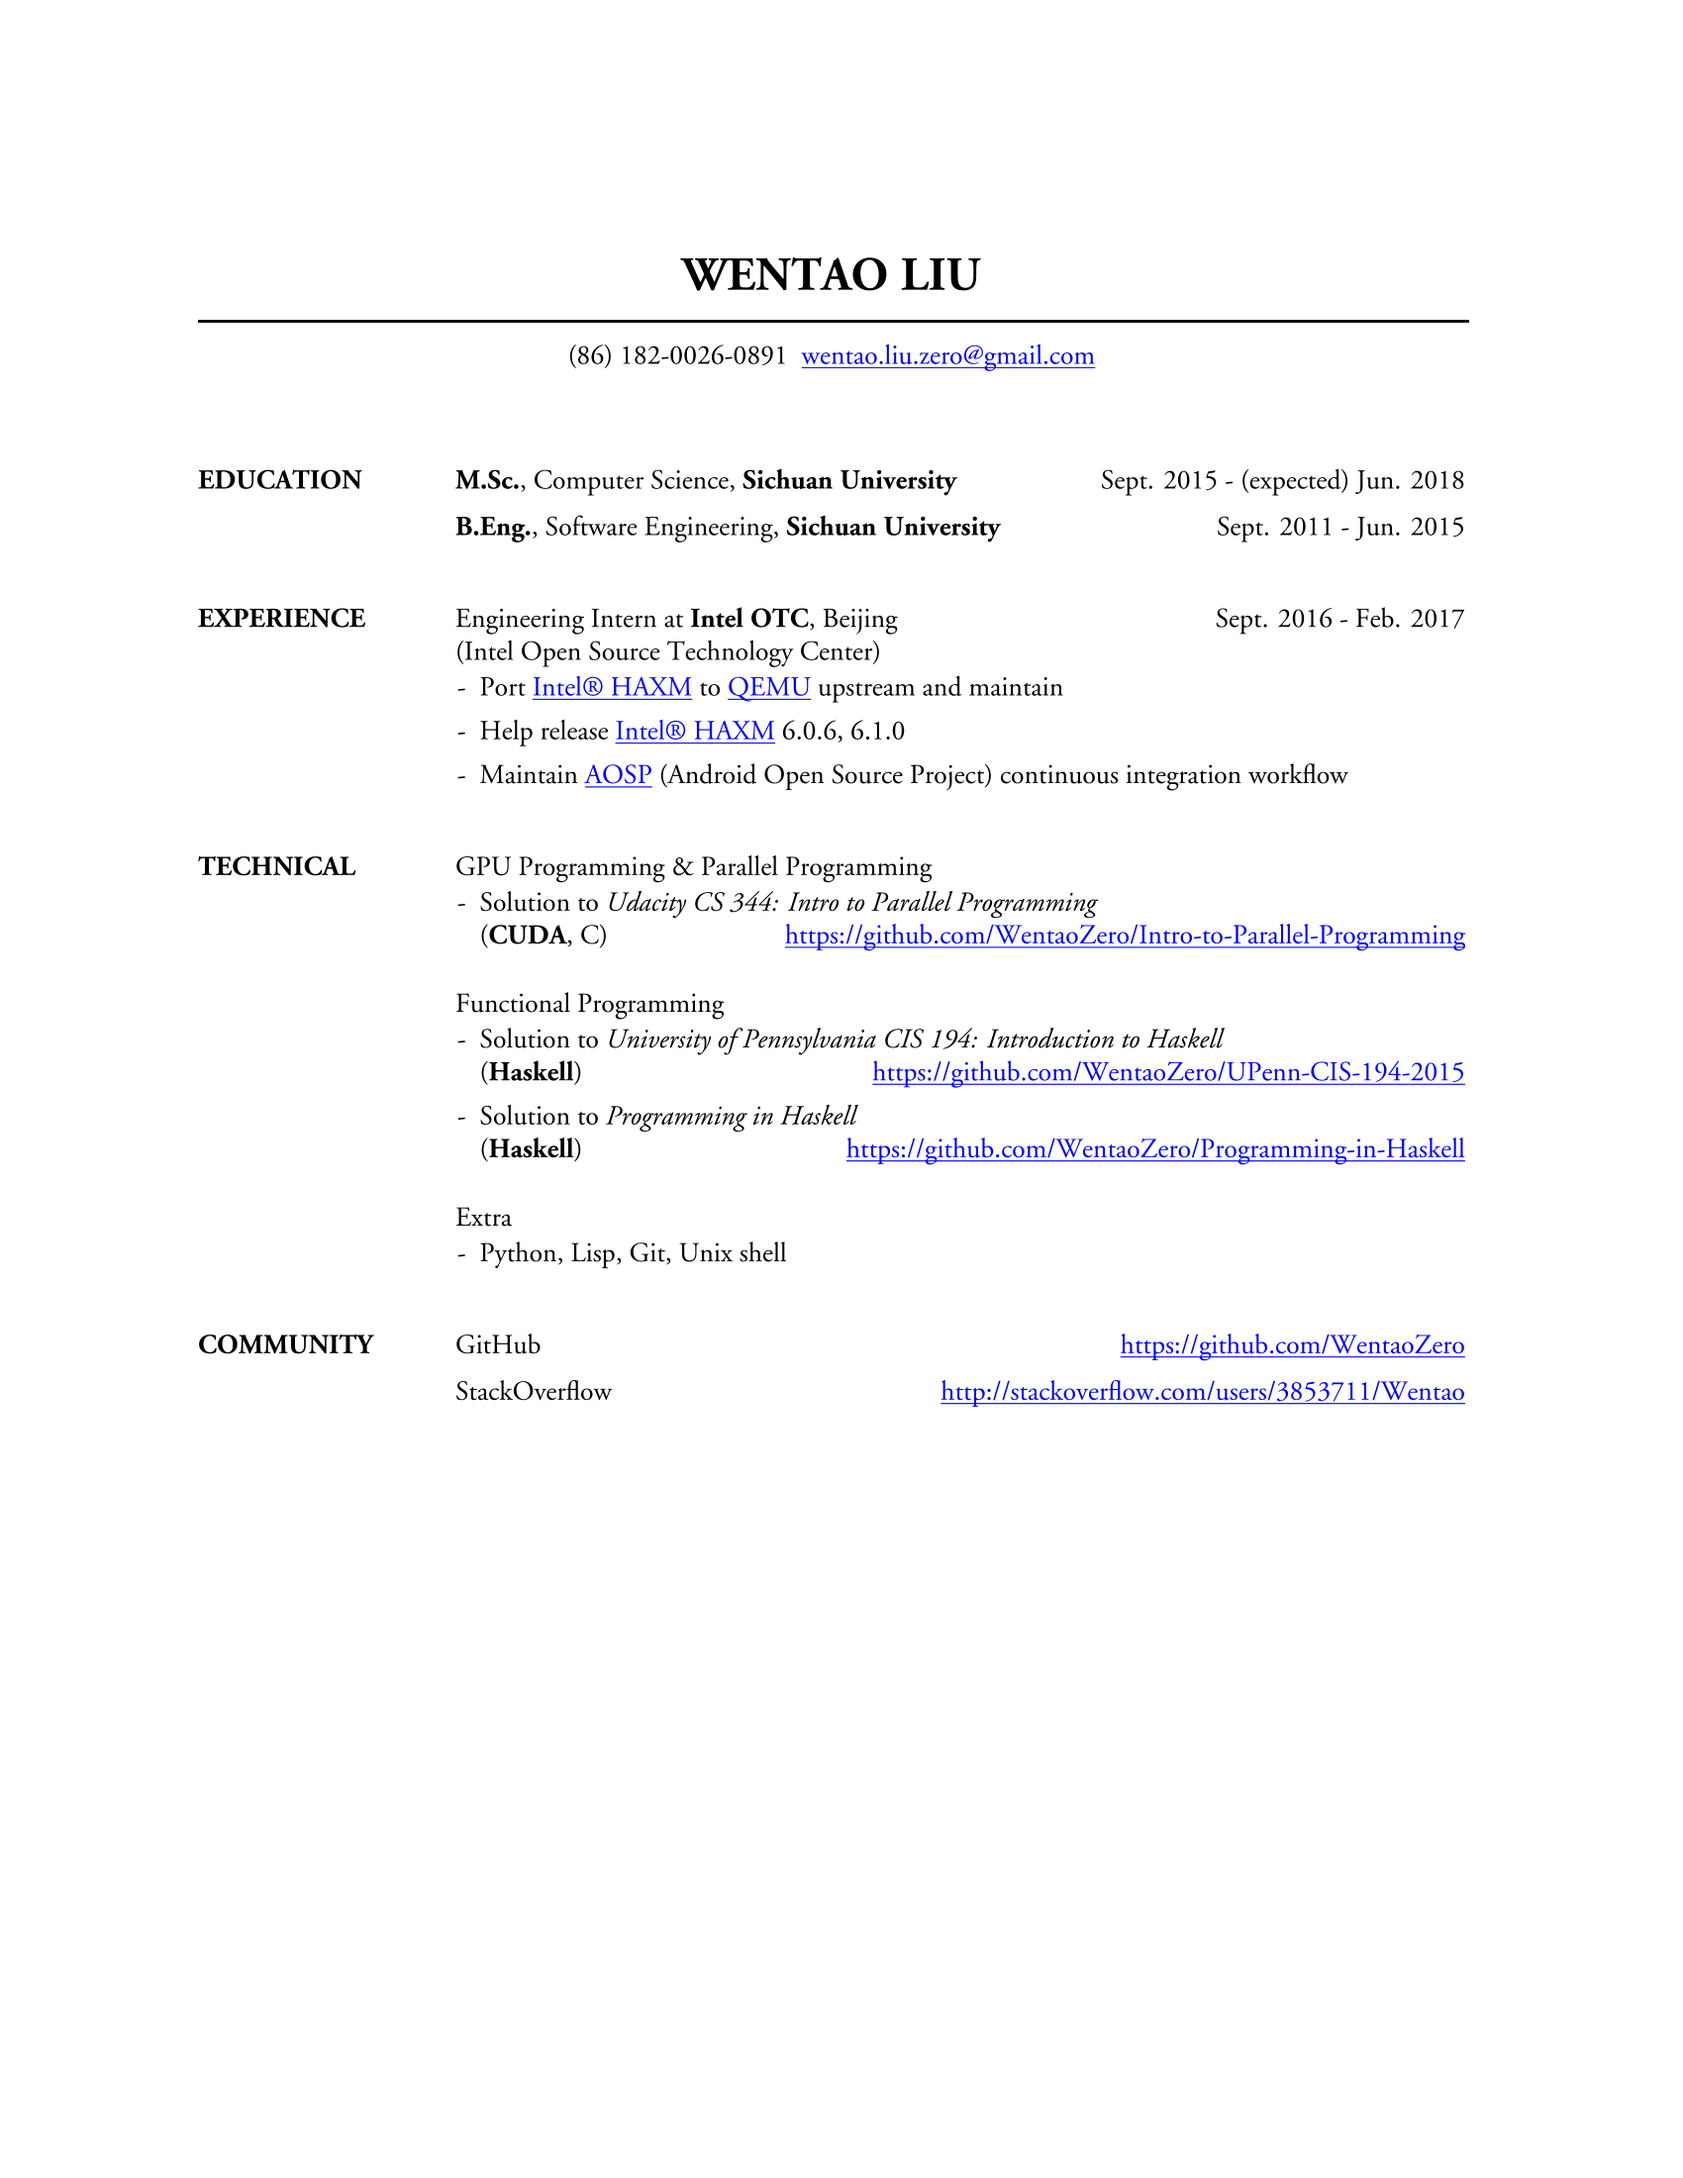
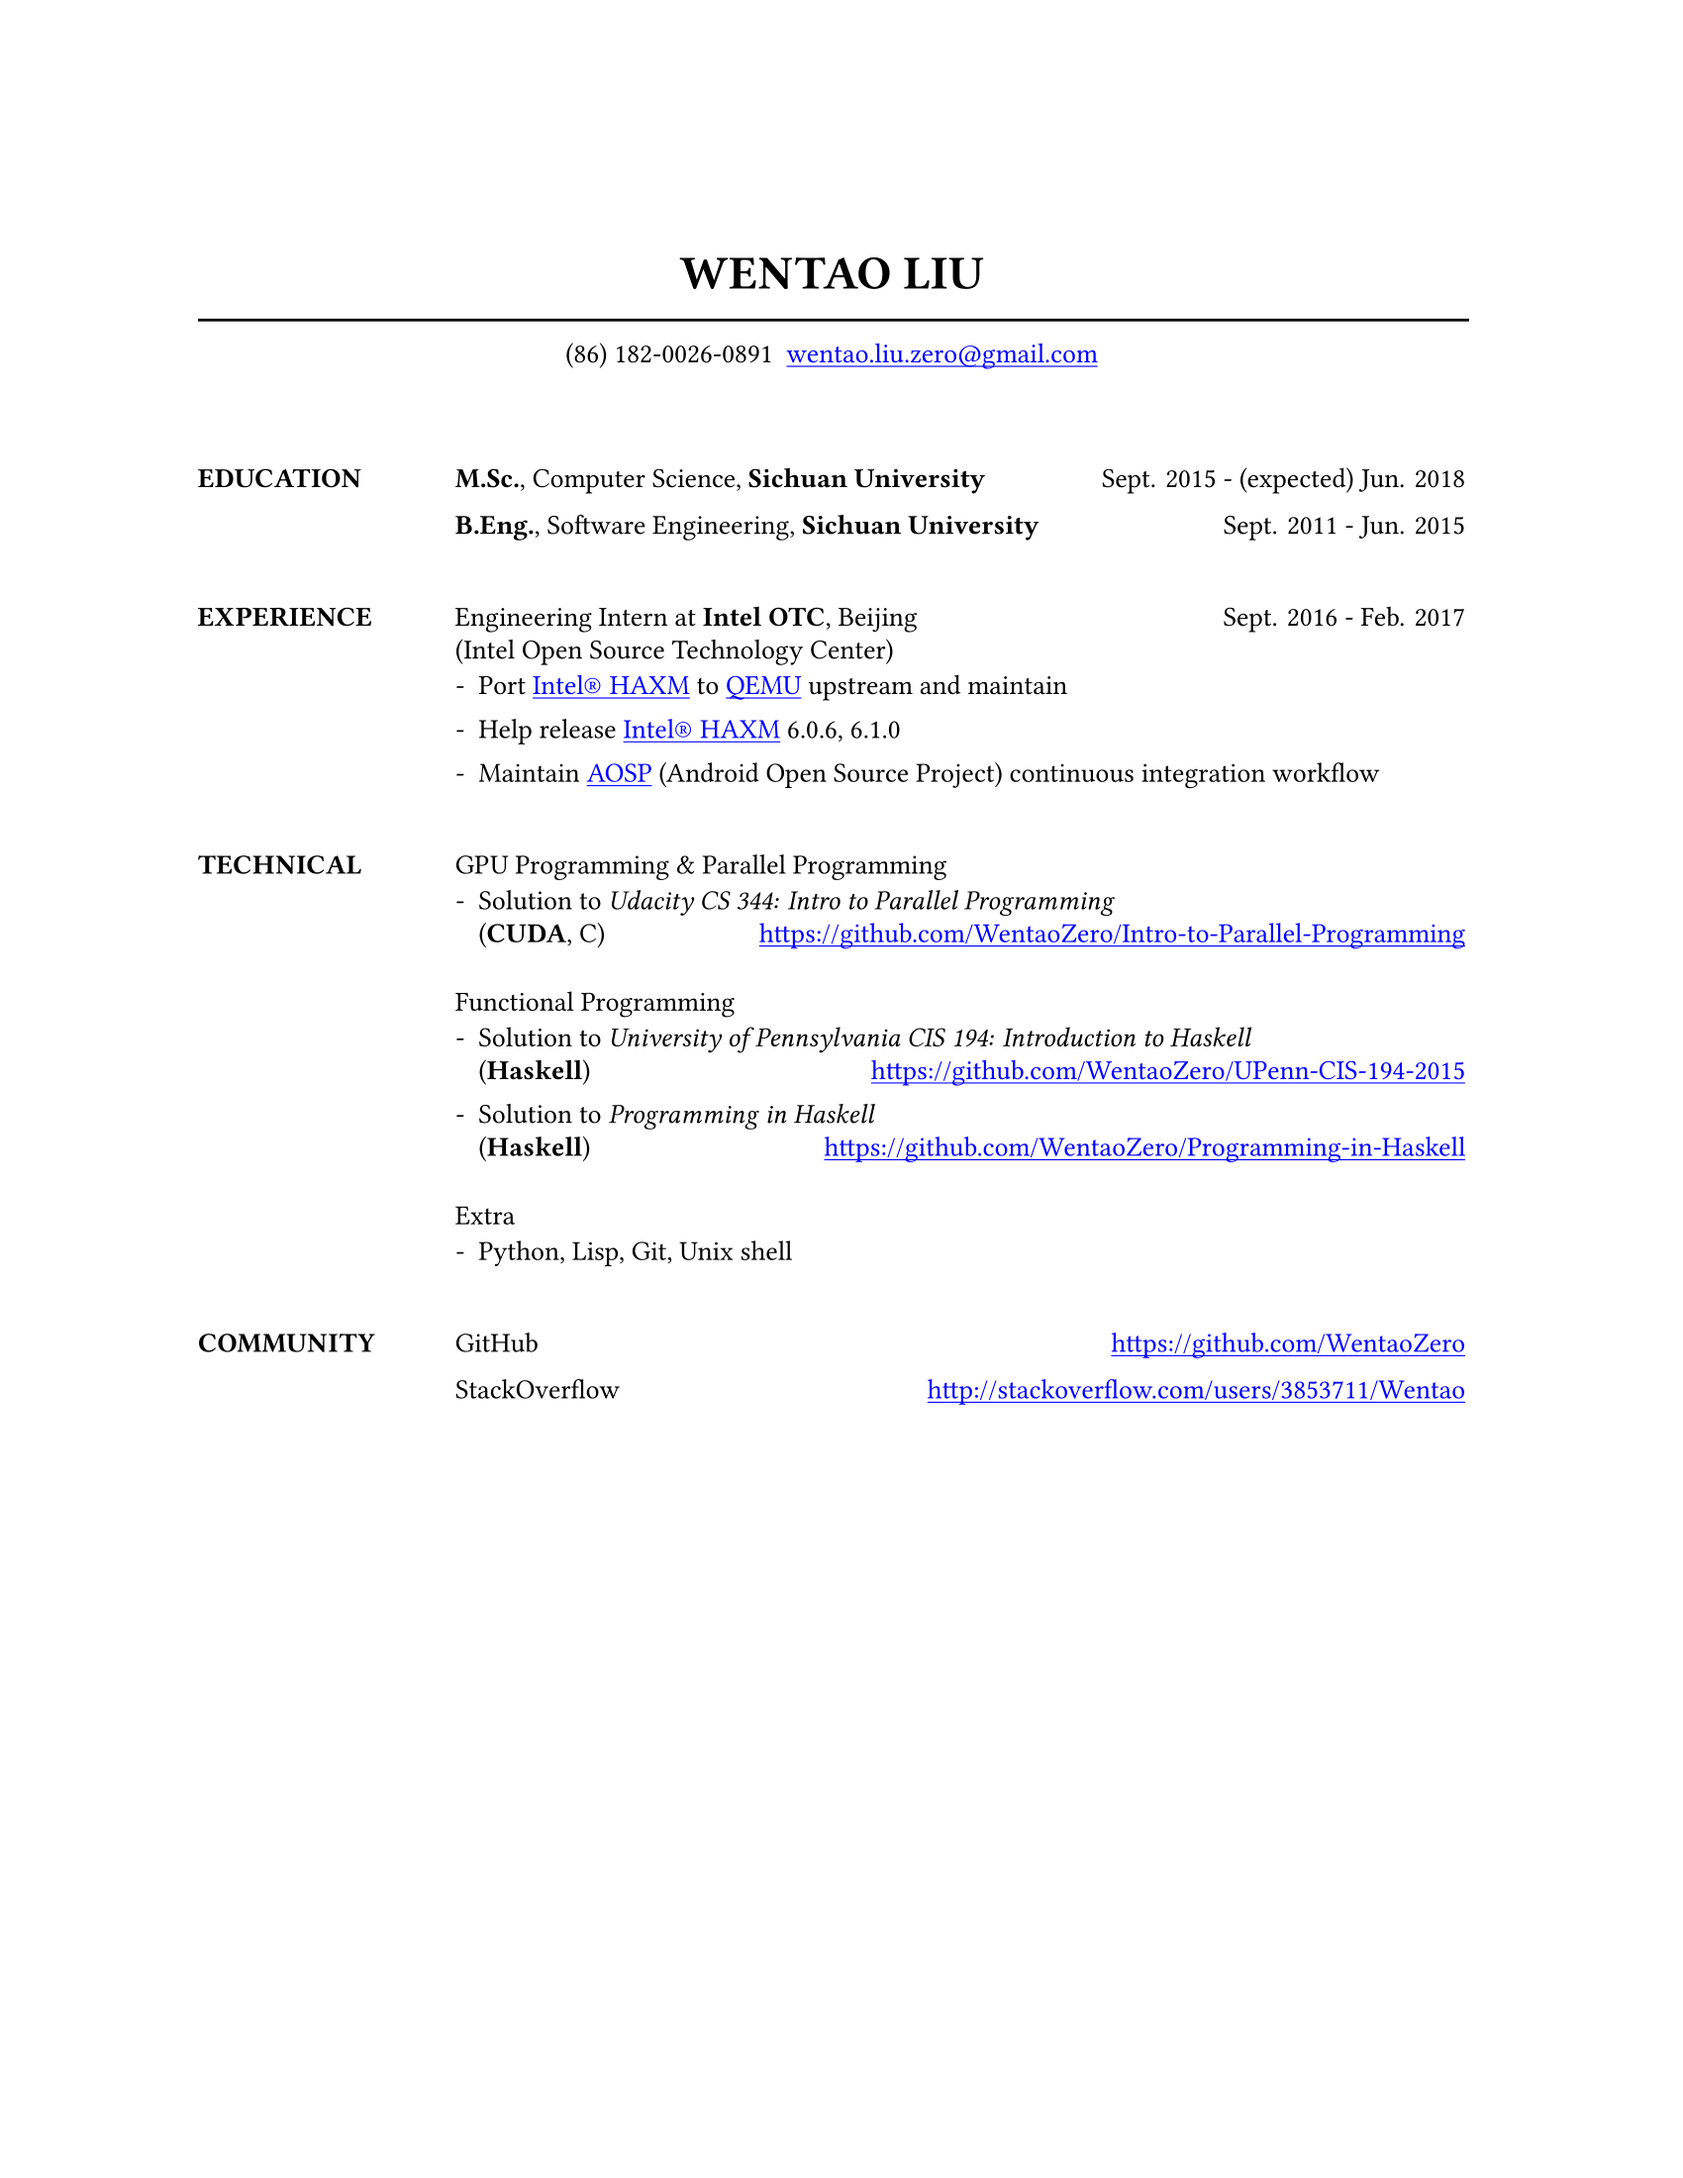
font: Adobe Garamond -> Linux Libertine

diff --git a/Resume-Wentao-LIU.tex b/Resume-Wentao-LIU.tex
@@ -7,8 +7,8 @@
 \usepackage{hyperref}
 \usepackage{marvosym}
 \usepackage{xeCJK}
-
-\setmainfont{Adobe Garamond}
+\setmainfont{Linux Libertine}
+%disable Linux Libertine Semibold
 
 \def \Email {wentao.liu.zero@gmail.com}
 \def \Name  {WENTAO LIU}

diff --git a/README.md b/README.md
@@ -1,7 +1,7 @@
 ###Usage
 TeXstudio: `XeLaTeX`
 
-Main font: `Adobe Garamond`
+Main font: `Linux Libertine`
 
 ###Download
 [Resume-Wentao-LIU.pdf](https://github.com/WentaoZero/Resume/blob/master/Resume-Wentao-LIU.pdf)
